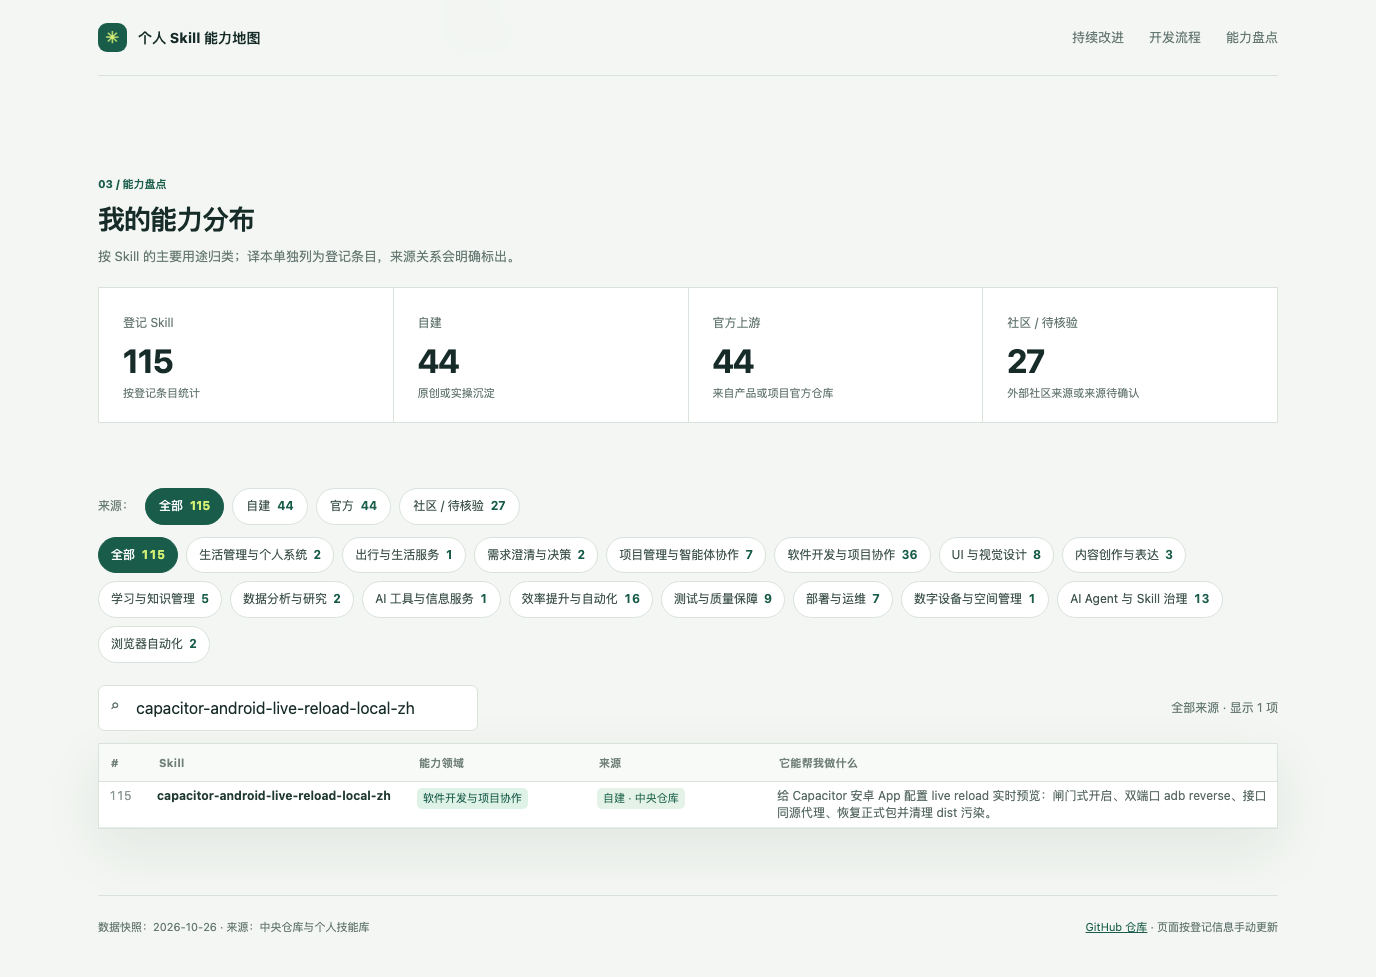
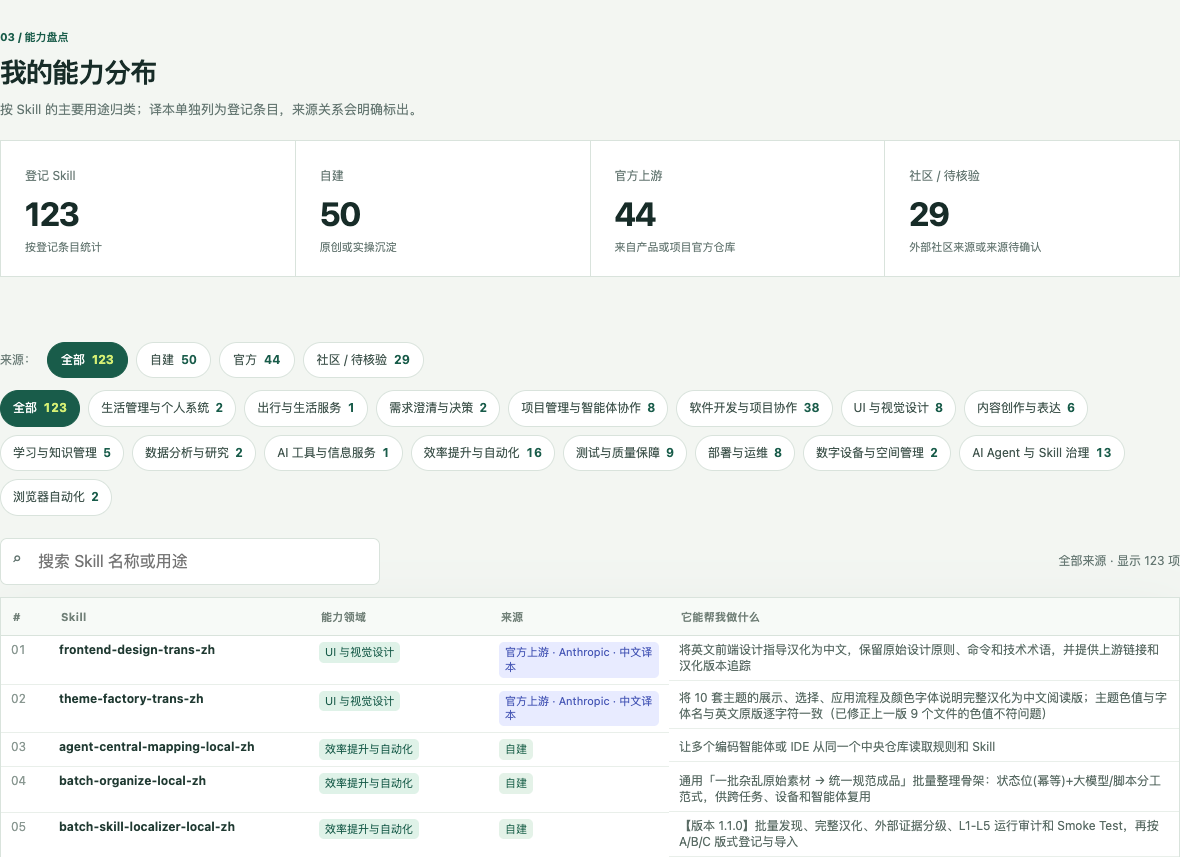
补齐中央登记 6 条 Skill，地图总数更新至 123
按 SKILL-REGISTRY 当前清单补入 stage-retro、trae-project-cleanup、
github-profile-homepage-from-zero、orca-new-project、wechat-to-xiaohongshu、
tencent-web-hosting 六条自建 Skill；同步来源统计为自建 50、官方上游 44、
社区/待核验 29，更新快照日期、README 双语数字与能力盘点、持续改进截图。

diff --git a/index.html b/index.html
@@ -72,7 +72,7 @@
         <div class="table-shell"><table><thead><tr><th scope="col">#</th><th scope="col">Skill</th><th scope="col">能力领域</th><th scope="col">来源</th><th scope="col">它能帮我做什么</th></tr></thead><tbody id="skillRows"><tr><td class="loading" colspan="5">正在读取技能清单…</td></tr></tbody></table></div>
       </section>
     </main>
-    <footer class="foot"><span>数据快照：<span id="snapshot">2026-10-15</span> · 来源：中央仓库与个人技能库</span><span><a href="https://github.com/wanghoufan/alw-002-skill-system-map">GitHub 仓库</a> · 页面按登记信息手动更新</span></footer>
+    <footer class="foot"><span>数据快照：<span id="snapshot">2026-10-27</span> · 来源：中央仓库与个人技能库</span><span><a href="https://github.com/wanghoufan/alw-002-skill-system-map">GitHub 仓库</a> · 页面按登记信息手动更新</span></footer>
   </div>
   <script>
   const escapeHtml = s => String(s).replace(/[&<>"']/g, c => ({'&':'&amp;','<':'&lt;','>':'&gt;','"':'&quot;',"'":'&#39;'}[c]));
@@ -119,7 +119,7 @@
     }
     document.getElementById('heatMonths').innerHTML=['1月','2月','3月','4月','5月','6月','7月','8月','9月','10月','11月','12月'].map(x=>`<span>${x}</span>`).join('');
     const dated=[...data.events].sort((a,b)=>b.date.localeCompare(a.date));const latest=dated[0]?.date||'—';document.getElementById('heatCaption').textContent=`统计口径：${data.countDefinition} 最近一条登记记录：${latest}。`;
-    const highlights=[['2026-09-23','集中复核中文译本，补齐原文结构与覆盖内容。'],['2026-09-24','完善 Skill 来源、分组和登记治理规则。'],['2026-09-28','新增课程卡片、代理测速等能力记录。'],['2026-10-05','补充项目治理与 GitHub Pages 实战经验。'],['2026-10-06','新增安全 MCP 接入和 Android 设备管理能力。'],['2026-10-07','新增 ORCA 设计流程七项 Skill，并更新 Codex session 额度保护。'],['2026-10-08','新增七项 ORCA Design Pipeline 中文阅读版，已启用并放入“汉化”组，不分发给智能体。'],['2026-10-10','茶话会投稿 Skill 升级到 1.3.0，补充配图校验；GitHub 展示 Skill 升级到 2.2.0；地图维护 Skill 升级到 1.1.0，公开地图改动默认发布并核验线上。'],['2026-10-12','新增 GitHub Spec Kit 官方 v1.1.3 的九项 SDD 执行 Skill，分发至十个已启用智能体；另制作九项中文阅读版并放入“汉化”组，不分发给智能体。'],['2026-10-14','新增 Vercel React Native / Expo 工程规则英文执行版，按中央规范登记并分发。'],['2026-10-15','补齐 Vercel React Native Skills 中文阅读版及 36 条规则代码示例，导入“汉化”组启用可见，不部署给智能体。'],['2026-10-17','Android 设备锁升级到 2.1.0：按智能体隔离长期绑定；完成手机操作后可显式释放，再安全交接给另一个身份。'],['2026-10-25','中央登记更新 4 条：GitHub 项目收尾与 README 维护升级，并补充主页从零和国内托管实战能力。'],['2026-10-26','新增 macOS 菜单栏指标小工具与 Capacitor 安卓实时预览两项自建能力，已登记并分发。']];
+    const highlights=[['2026-09-23','集中复核中文译本，补齐原文结构与覆盖内容。'],['2026-09-24','完善 Skill 来源、分组和登记治理规则。'],['2026-09-28','新增课程卡片、代理测速等能力记录。'],['2026-10-05','补充项目治理与 GitHub Pages 实战经验。'],['2026-10-06','新增安全 MCP 接入和 Android 设备管理能力。'],['2026-10-07','新增 ORCA 设计流程七项 Skill，并更新 Codex session 额度保护。'],['2026-10-08','新增七项 ORCA Design Pipeline 中文阅读版，已启用并放入“汉化”组，不分发给智能体。'],['2026-10-10','茶话会投稿 Skill 升级到 1.3.0，补充配图校验；GitHub 展示 Skill 升级到 2.2.0；地图维护 Skill 升级到 1.1.0，公开地图改动默认发布并核验线上。'],['2026-10-12','新增 GitHub Spec Kit 官方 v1.1.3 的九项 SDD 执行 Skill，分发至十个已启用智能体；另制作九项中文阅读版并放入“汉化”组，不分发给智能体。'],['2026-10-14','新增 Vercel React Native / Expo 工程规则英文执行版，按中央规范登记并分发。'],['2026-10-15','补齐 Vercel React Native Skills 中文阅读版及 36 条规则代码示例，导入“汉化”组启用可见，不部署给智能体。'],['2026-10-17','Android 设备锁升级到 2.1.0：按智能体隔离长期绑定；完成手机操作后可显式释放，再安全交接给另一个身份。'],['2026-10-25','中央登记更新 4 条：GitHub 项目收尾与 README 维护升级，并补充主页从零和国内托管实战能力。'],['2026-10-26','新增 macOS 菜单栏指标小工具与 Capacitor 安卓实时预览两项自建能力，已登记并分发；同日新增社区上游 answer-me-with-html 英文执行版 v0.5.8 及其中文阅读版，中文版放入“汉化”组、不部署。Capacitor 实时预览升级 1.1.0：新增路线 B 手机浏览器局域网预览，0 部署额度，触发词扩展至网页/局域网预览。蒲公英 APK 分发升级 1.2.0：上传前预检启动图标，只有 adaptive icon XML、缺 mipmap PNG 时默认拦下，默认公开安装。本次巡检把中央表 6 条漏项补进地图、总数到 123。']];
     document.getElementById('recent').innerHTML=highlights.map(([date,text])=>`<article><time>${date}</time><p>${escapeHtml(text)}</p></article>`).join('');
   }
   load().catch(err=>{document.getElementById('skillRows').innerHTML=`<tr><td colspan="5" class="empty">${escapeHtml(err.message)}。请稍后刷新页面。</td></tr>`;document.getElementById('heatSub').textContent='迭代记录暂时不可用'});

diff --git a/README.en.md b/README.en.md
@@ -24,13 +24,13 @@ Domains include life management, travel, requirements, project collaboration, UI
 
 ## Public data snapshot
 
-The public page reflects a data snapshot from **2026-10-26**, with 115 registered Skills. Translations and their English originals are listed separately. Community contributions and entries with unverified sources are labeled “Community / Unverified.”
+The public page reflects a data snapshot from **2026-10-27**, with 123 registered Skills. Translations and their English originals are listed separately. Community contributions and entries with unverified sources are labeled “Community / Unverified.”
 
 | Source | Count | Description |
 | --- | ---: | --- |
-| Self-built | 44 | Original skills and practical experience captured for reuse |
+| Self-built | 50 | Original skills and practical experience captured for reuse |
 | Official upstream | 44 | Skills from official product or project repositories |
-| Community / Unverified | 27 | Community contributions or entries whose source has not been confirmed |
+| Community / Unverified | 29 | Community contributions or entries whose source has not been confirmed |
 
 The inventory combines the central `SKILL-REGISTRY.md` with the locally installed Skill Manager list, deduplicated by Skill name. Built-in plugin Skills, ORCA roles, and project-specific practices are excluded from the Skill count. The activity heatmap counts change records in the central registry; it does not measure quality or time spent.
 

diff --git a/README.md b/README.md
@@ -24,13 +24,13 @@
 
 ## 当前公开数据
 
-公开页面的数据快照截至 **2026-10-26**，共登记 115 个 Skill。翻译版与英文原版作为独立条目展示；社区作品和来源尚未确认的条目归入“社区 / 待核验”。
+公开页面的数据快照截至 **2026-10-27**，共登记 123 个 Skill。翻译版与英文原版作为独立条目展示；社区作品和来源尚未确认的条目归入“社区 / 待核验”。
 
 | 来源 | 数量 | 说明 |
 | --- | ---: | --- |
-| 自建 | 44 | 原创或实操经验沉淀 |
+| 自建 | 50 | 原创或实操经验沉淀 |
 | 官方上游 | 44 | 来自产品或项目的官方仓库 |
-| 社区 / 待核验 | 27 | 外部社区作品或来源尚未确认 |
+| 社区 / 待核验 | 29 | 外部社区作品或来源尚未确认 |
 
 统计合并中央 `SKILL-REGISTRY.md` 与个人 Skill Manager 已安装清单，并按 Skill 名称去重。插件自带 Skill、ORCA 角色流程和项目专用规范不计入 Skill 总数；迭代热力图统计中央登记档案中的变更记录，不代表质量或投入时长。
 
